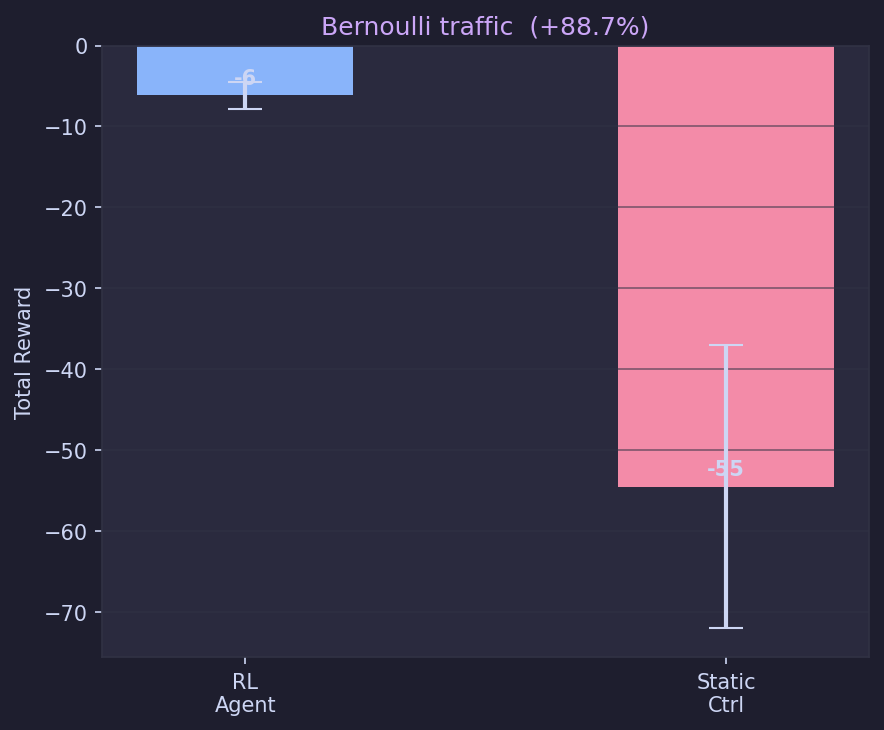
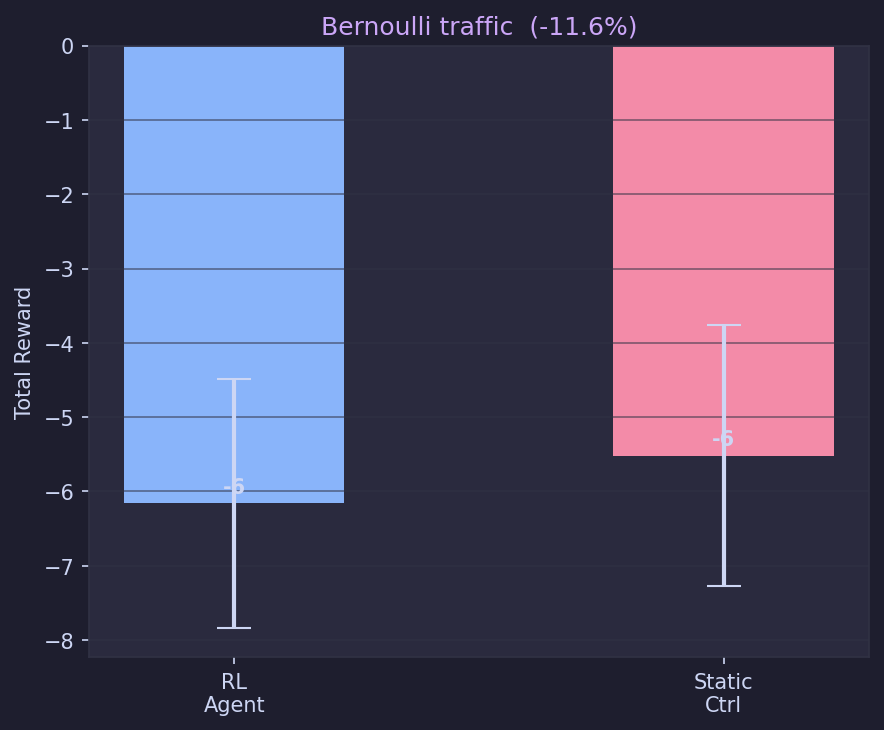
no, we found the problem

diff --git a/evaluate.py b/evaluate.py
@@ -109,8 +109,12 @@ def run_static(sumo_cfg: str, use_gui: bool, num_runs: int,
         traci.init(port)
 
         total_reward = 0.0
-        for _ in range(max_sim_secs):
-            traci.simulationStep()
+        # Main simulation period (50 steps of 10 seconds each)
+        for _ in range(TrafficEnv.MAX_STEPS):
+            for _ in range(TrafficEnv.STEP_SIZE):
+                traci.simulationStep()
+            
+            # Calculate reward once at the end of the 10s block
             step_reward = compute_reward(lanes, TrafficEnv.LEFT_LANES, mode=reward_mode)
             total_reward += step_reward * REWARD_SCALE
 
